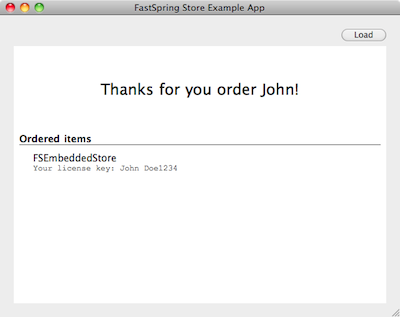
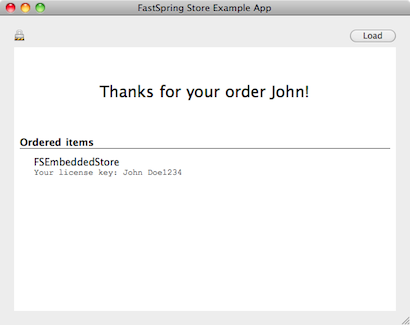
Fixed typo.

diff --git a/Example2/OrderView.html b/Example2/OrderView.html
@@ -12,7 +12,7 @@
 		</script>
 	</head>
 	<body>
-		<div class="thankYouNote">Thanks for you order {{ order.customerFirstName }}!</div>
+		<div class="thankYouNote">Thanks for your order {{ order.customerFirstName }}!</div>
 		<div class="orderItemsTitle">Ordered items</div>
 		{% for orderItem in order.orderItems %}
 		<div class="orderItem">
